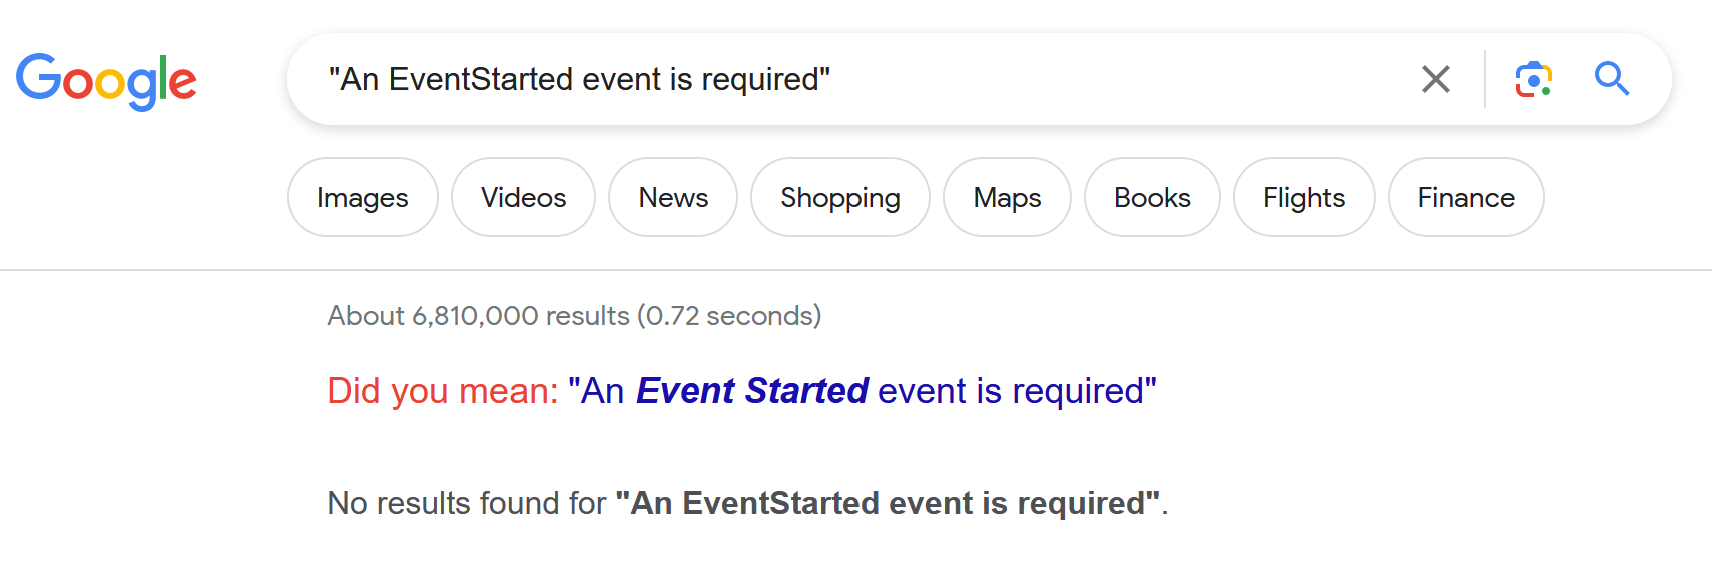
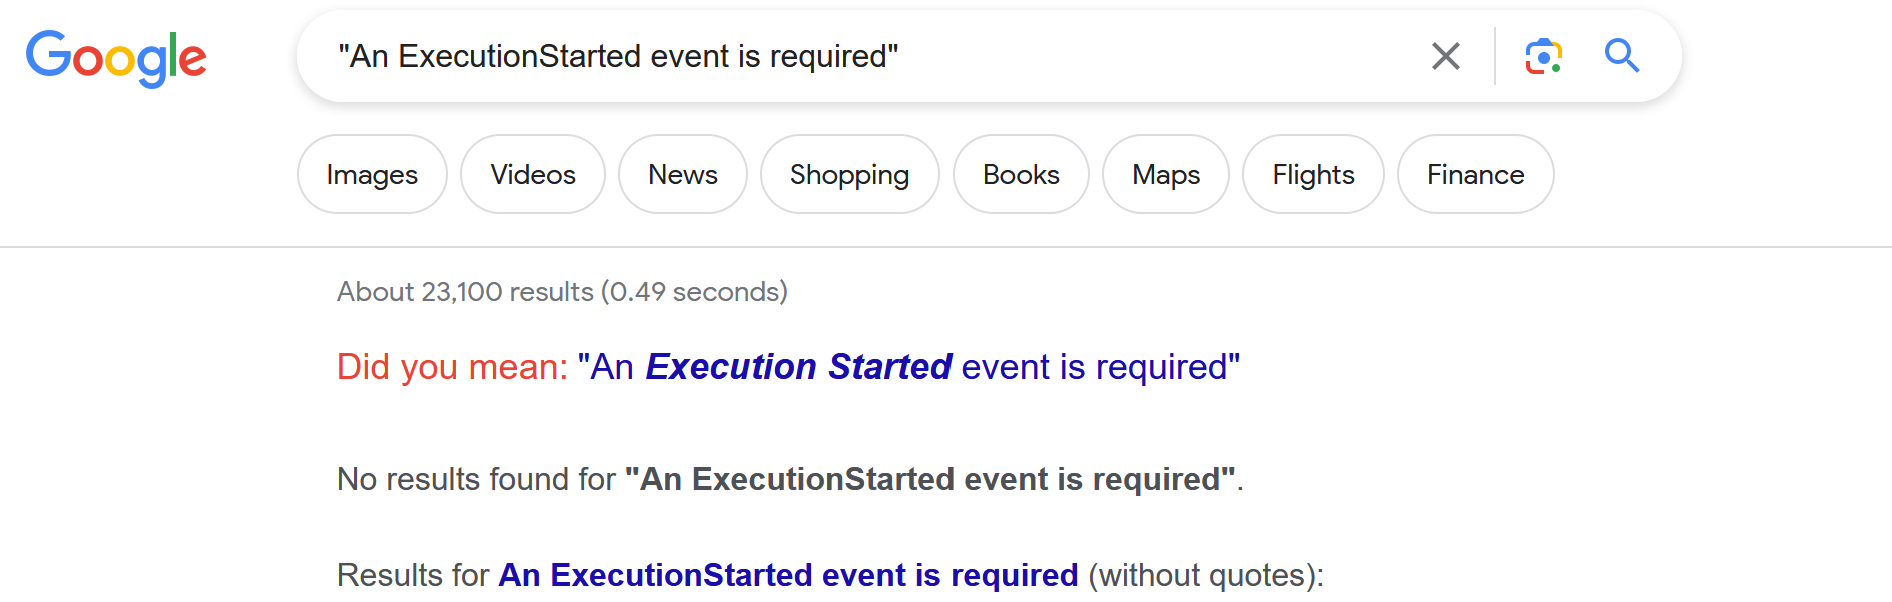
eventstarted --> executionstarted

diff --git a/durable_functions_an_eventstarted_event_is_required.html b/durable_functions_an_eventstarted_event_is_required.html
@@ -6,25 +6,25 @@
     <meta charset="UTF-8"/>
     <meta name="viewport" content="width=device-width, initial-scale=1.0"/>
 
-    <title>Durable Functions error - 'An EventStarted event is required'</title>
+    <title>Durable Functions error - 'An ExecutionStarted event is required'</title>
 
-    <meta name="title" content="Durable Functions error - 'An EventStarted event is required'"/>
-    <meta name="description" content="The solution to InvalidOperationException with 'An EventStarted event is required' when running or migrating Durable Functions to Isolated process"/>
+    <meta name="title" content="Durable Functions error - 'An ExecutionStarted event is required'"/>
+    <meta name="description" content="The solution to InvalidOperationException with 'An ExecutionStarted event is required' when running or migrating Durable Functions to Isolated process"/>
     <meta name="author" content="Brian Dunnington" />
     <meta property="og:locale" content="en_US" />
     <meta property="og:type" content="website"/>
     <meta property="og:site_name" content="Brian Dunnington" />
     <meta property="og:url" content="https://briandunnington.github.io/durable_functions_an_eventstarted_event_is_required"/>
-    <meta property="og:title" content="Durable Functions error - 'An EventStarted event is required'"/>
-    <meta property="og:description" content="The solution to InvalidOperationException with 'An EventStarted event is required' when running or migrating Durable Functions to Isolated process"/>
+    <meta property="og:title" content="Durable Functions error - 'An ExecutionStarted event is required'"/>
+    <meta property="og:description" content="The solution to InvalidOperationException with 'An ExecutionStarted event is required' when running or migrating Durable Functions to Isolated process"/>
     <meta property="og:image" content="http://briandunnington.github.io/images/eventstarted_event_required.png"/>
     <meta property="article:published_time" content="2023-11-02T12:00:00"/>
     <meta property="twitter:card" content="summary_large_image"/>
     <meta property="twitter:site" content="@briandunnington"/>
     <meta property="twitter:creator" content="@briandunnington"/>
     <meta property="twitter:url" content="https://briandunnington.github.io/durable_functions_an_eventstarted_event_is_required"/>
-    <meta property="twitter:title" content="Durable Functions error - 'An EventStarted event is required'"/>
-    <meta property="twitter:description" content="The solution to InvalidOperationException with 'An EventStarted event is required' when running or migrating Durable Functions to Isolated process"/>
+    <meta property="twitter:title" content="Durable Functions error - 'An ExecutionStarted event is required'"/>
+    <meta property="twitter:description" content="The solution to InvalidOperationException with 'An ExecutionStarted event is required' when running or migrating Durable Functions to Isolated process"/>
     <meta property="twitter:image" content="http://briandunnington.github.io/images/eventstarted_event_required.png"/>
 
     <link rel="canonical" href="https://briandunnington.github.io/durable_functions_an_eventstarted_event_is_required" />
@@ -55,14 +55,14 @@
                 <time datetime="2023-11-02 12:00:00 +0000" class="catalogue-time">November 2, 2023</time>
             </div>
 
-            <h1 class="post-title">Durable Functions error - 'An EventStarted event is required'</h1>
+            <h1 class="post-title">Durable Functions error - 'An ExecutionStarted event is required'</h1>
             <div class="post-line"></div>
 
 
 
             <div class="language-csharp"><div class="hero-unit">
-<h1>Durable Functions error - 'An EventStarted event is required'</h1>
-<p>The solution to InvalidOperationException with 'An EventStarted event is required' when running or migrating Durable Functions to Isolated process</p>
+<h1>Durable Functions error - 'An ExecutionStarted event is required'</h1>
+<p>The solution to InvalidOperationException with 'An ExecutionStarted event is required' when running or migrating Durable Functions to Isolated process</p>
 </div>
 
 <p>We have been migrating our Azure Functions to the new <a href="isolated">isolated process model</a> and for the most part, it has been fairly straight-forward. However, the most recent function app I was migrating used Durable Functions and I kept getting a strange error:</p>
@@ -83,7 +83,7 @@ Exception: System.InvalidOperationException: An ExecutionStarted event is requir
 
 <p>You know it is going to be a fun debugging session when there are <em>zero</em> results on Google.</p>
 
-<p>This is a big complicated function app, so I created a <code>File &gt; New</code> Durable Function app from Visual Studio to see if I could reproduce the issue. Of course it ran fine out of the box. Now that I knew those functions themselves worked, I copied them into my actual function app, and when I ran it, I got the <code>An EventStarted event is required</code> error.</p>
+<p>This is a big complicated function app, so I created a <code>File &gt; New</code> Durable Function app from Visual Studio to see if I could reproduce the issue. Of course it ran fine out of the box. Now that I knew those functions themselves worked, I copied them into my actual function app, and when I ran it, I got the <code>An ExecutionStarted event is required</code> error.</p>
 
 <p>Like I said, this is a complex app with our own custom middleware and authentication and lots of stuff going on, so I assumed there was some strange incompatibility somehwere. I spent a ton of time trying to hunt down the issue thinking it had to do with how we were modifying the function results and possibly messing up the durable functions runtime somehow.</p>
 

diff --git a/index.html b/index.html
@@ -49,10 +49,10 @@
                 <a href="/durable_functions_an_eventstarted_event_is_required" class="catalogue-item">
                     <div>
                         <time datetime="2023-11-02 12:00:00 +0000" class="catalogue-time">November 2, 2023</time>
-                        <h1 class="catalogue-title">Durable Functions error - 'An EventStarted event is required'</h1>
+                        <h1 class="catalogue-title">Durable Functions error - 'An ExecutionStarted event is required'</h1>
                         <div class="catalogue-line"></div>
                         <p>
-                            The solution to InvalidOperationException with 'An EventStarted event is required' when running or migrating Durable Functions to Isolated process
+                            The solution to InvalidOperationException with 'An ExecutionStarted event is required' when running or migrating Durable Functions to Isolated process
                         </p>
                     </div>
                 </a>

diff --git a/everything_you_ever_wanted_to_know_about_cookies.html b/everything_you_ever_wanted_to_know_about_cookies.html
@@ -92,7 +92,7 @@
 
         <div class="pagination">
 
-                <a href="/durable_functions_an_eventstarted_event_is_required" class="left arrow">&#8592; Durable Functions error - 'An EventStarted event is required'</a>
+                <a href="/durable_functions_an_eventstarted_event_is_required" class="left arrow">&#8592; Durable Functions error - 'An ExecutionStarted event is required'</a>
                             <a href="/cloud-distributed-lock" class="right arrow">Cloud Distributed Lock with Azure Cosmos DB &#8594;</a>
             <a href="#" class="top">Top</a>
         </div>

diff --git a/_posts/durable_functions_an_eventstarted_event_is_required.md b/_posts/durable_functions_an_eventstarted_event_is_required.md
@@ -1,11 +1,11 @@
-Title: Durable Functions error - 'An EventStarted event is required'
+Title: Durable Functions error - 'An ExecutionStarted event is required'
 Date: 2023.11.02
-Summary: The solution to InvalidOperationException with 'An EventStarted event is required' when running or migrating Durable Functions to Isolated process
+Summary: The solution to InvalidOperationException with 'An ExecutionStarted event is required' when running or migrating Durable Functions to Isolated process
 Image: http://briandunnington.github.io/images/eventstarted_event_required.png
 
 <div class="hero-unit">
-<h1>Durable Functions error - 'An EventStarted event is required'</h1>
-<p>The solution to InvalidOperationException with 'An EventStarted event is required' when running or migrating Durable Functions to Isolated process</p>
+<h1>Durable Functions error - 'An ExecutionStarted event is required'</h1>
+<p>The solution to InvalidOperationException with 'An ExecutionStarted event is required' when running or migrating Durable Functions to Isolated process</p>
 </div>
 
 We have been migrating our Azure Functions to the new [isolated process model](isolated) and for the most part, it has been fairly straight-forward. However, the most recent function app I was migrating used Durable Functions and I kept getting a strange error:
@@ -26,7 +26,7 @@ Of course I turned to Google:
 
 You know it is going to be a fun debugging session when there are *zero* results on Google.
 
-This is a big complicated function app, so I created a `File > New` Durable Function app from Visual Studio to see if I could reproduce the issue. Of course it ran fine out of the box. Now that I knew those functions themselves worked, I copied them into my actual function app, and when I ran it, I got the `An EventStarted event is required` error.
+This is a big complicated function app, so I created a `File > New` Durable Function app from Visual Studio to see if I could reproduce the issue. Of course it ran fine out of the box. Now that I knew those functions themselves worked, I copied them into my actual function app, and when I ran it, I got the `An ExecutionStarted event is required` error.
 
 Like I said, this is a complex app with our own custom middleware and authentication and lots of stuff going on, so I assumed there was some strange incompatibility somehwere. I spent a ton of time trying to hunt down the issue thinking it had to do with how we were modifying the function results and possibly messing up the durable functions runtime somehow.
 
